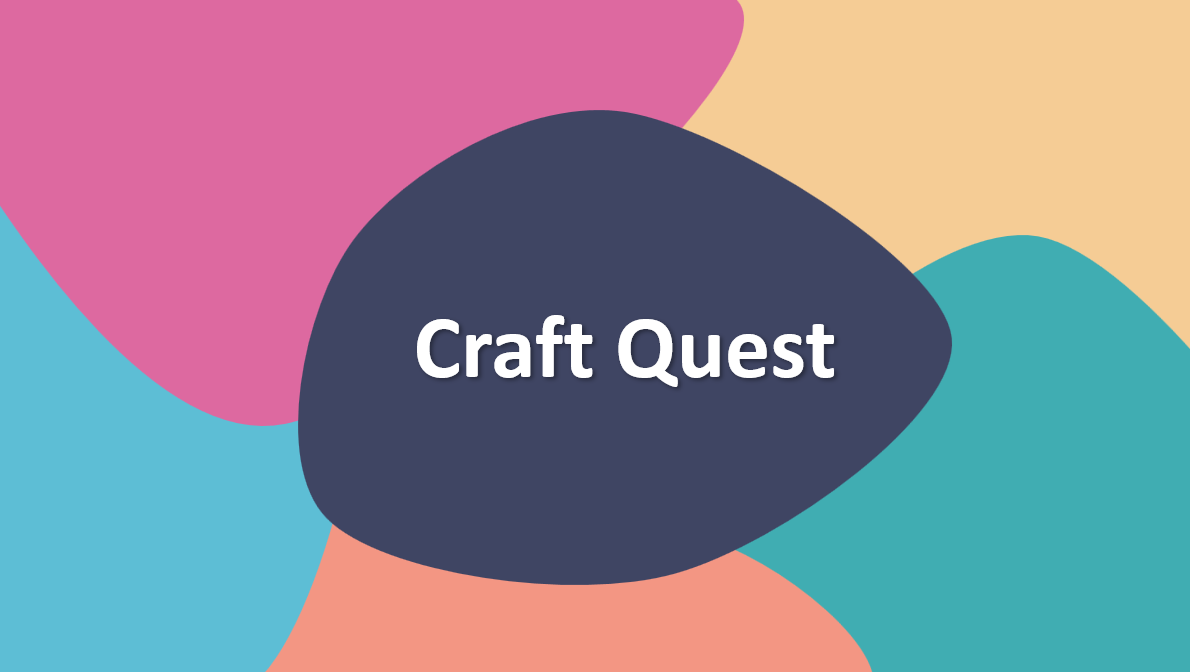
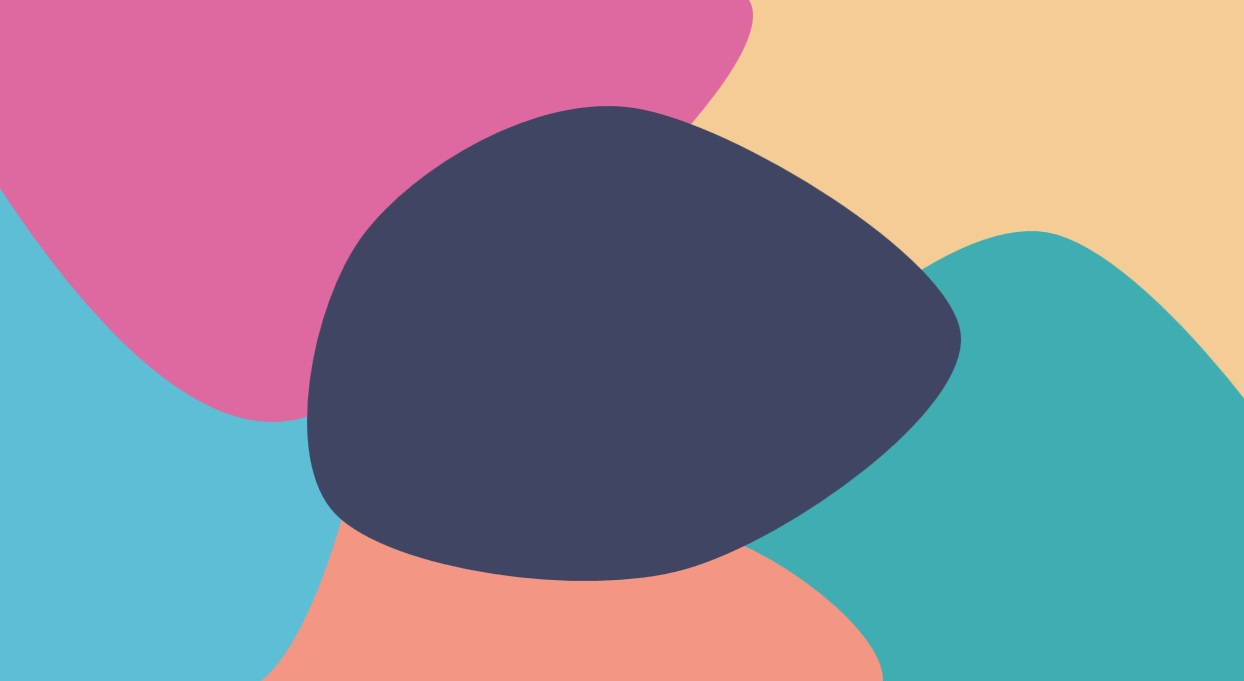
タイトル編集

diff --git a/CraftSync_Project/app/static/css/title.css b/CraftSync_Project/app/static/css/title.css
@@ -1,6 +1,24 @@
+.top{
+    background-color: rgba(255, 0, 0, 0);
+    height: 300px;
+}
+.mid{
+    background-color: rgba(255, 0, 0, 0);
+    height: 200px;
+    display: flex;
+    justify-content: center;
+    align-items: center;
+}
 h1{
-    color:black;
-    text-align: center;
+    color:white;
+    font-size: 500%;
+}
+.bottom{
+    background-color: rgba(255, 0, 0, 0);
+    height: 300px;
+    display: flex;
+    justify-content: center;
+    align-items: center;
 }
 body{
     

diff --git a/CraftSync_Project/app/templates/title.html b/CraftSync_Project/app/templates/title.html
@@ -8,6 +8,15 @@
 
 </head>
 <body>
-    <a href="{{url_for('main')}}">他のページへ遷移</a>
+    <div class="top">
+
+    </div>
+    <div class="mid">
+        <h1>Craft Quest</h1>
+    </div>
+    <div class="bottom">
+        <a href="{{url_for('main')}}">スタート</a>
+    </div>
+
 </body>
 </html>
